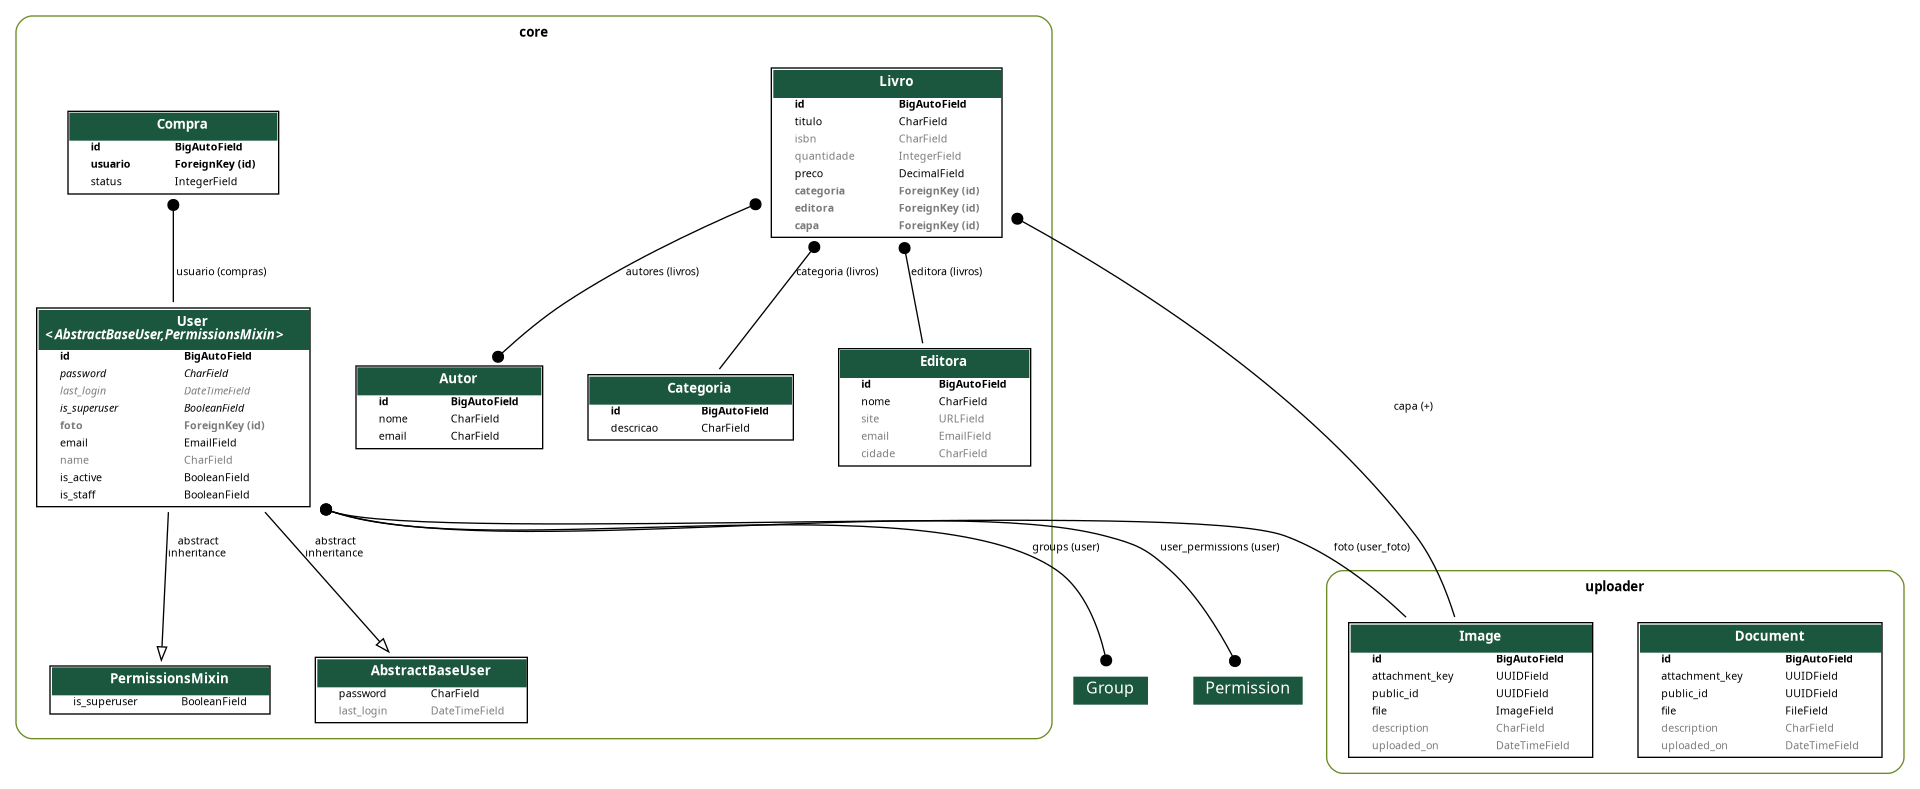
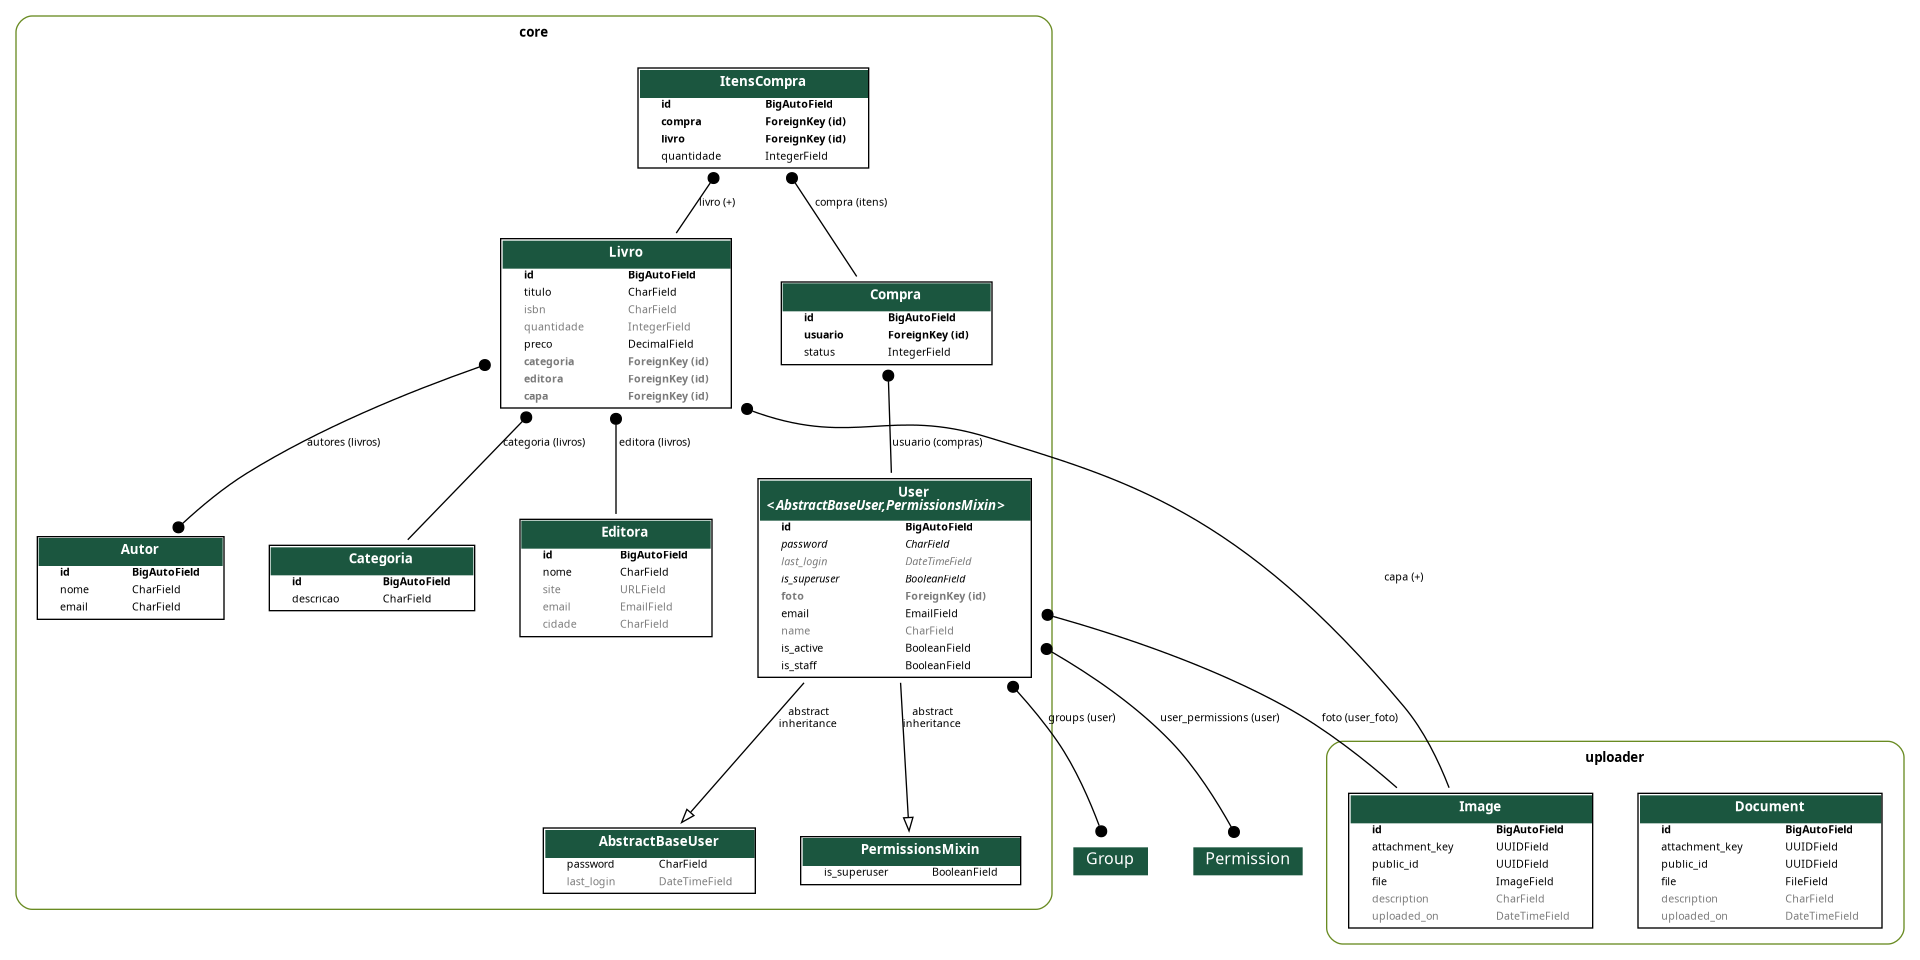
feat: uso de TabularInline e StackedInline no Admin para Itens da Compra

diff --git a/core/migrations/0007_itenscompra.py b/core/migrations/0007_itenscompra.py
@@ -1,0 +1,23 @@
+# Generated by Django 5.2.13 on 2026-06-16 19:04
+
+import django.db.models.deletion
+from django.db import migrations, models
+
+
+class Migration(migrations.Migration):
+
+    dependencies = [
+        ('core', '0006_compra'),
+    ]
+
+    operations = [
+        migrations.CreateModel(
+            name='ItensCompra',
+            fields=[
+                ('id', models.BigAutoField(auto_created=True, primary_key=True, serialize=False, verbose_name='ID')),
+                ('quantidade', models.IntegerField(default=1)),
+                ('compra', models.ForeignKey(on_delete=django.db.models.deletion.CASCADE, related_name='itens', to='core.compra')),
+                ('livro', models.ForeignKey(on_delete=django.db.models.deletion.PROTECT, related_name='+', to='core.livro')),
+            ],
+        ),
+    ]

diff --git a/core/admin.py b/core/admin.py
@@ -7,7 +7,7 @@ from django.contrib.auth.admin import UserAdmin as BaseUserAdmin
 from django.utils.translation import gettext_lazy as _
 
 from core import models
-from core.models import Autor, Categoria, Editora, Livro, User, Compra
+from core.models import Autor, Categoria, Editora, Livro, User, Compra, ItensCompra
 
 
 @admin.register(User)
@@ -87,8 +87,20 @@ class LivroAdmin(admin.ModelAdmin):
     ordering = ('titulo', 'editora', 'categoria')
     list_per_page = 25
 
[email redacted](ItensCompra)
+class ItensCompraAdmin(admin.ModelAdmin):
+    list_per_page = 10
+
+class ItensCompraInline(admin.TabularInline):
+    model = ItensCompra
+    extra = 1  # Quantidade de itens adicionais
+
 @admin.register(Compra)
 class CompraAdmin(admin.ModelAdmin):
     list_display = ('usuario', 'status')
+    search_fields = ('usuario', 'status')
+    list_filter = ('usuario', 'status')
     ordering = ('usuario', 'status')
-    list_per_page = 10   
+    list_per_page = 10
+    inlines = [ItensCompraInline]
+

diff --git a/core/models/compra.py b/core/models/compra.py
@@ -1,5 +1,5 @@
 from django.db import models
-
+from .livro import Livro
 from .user import User
 
 class Compra(models.Model):
@@ -11,3 +11,8 @@ class Compra(models.Model):
 
     usuario = models.ForeignKey(User, on_delete=models.PROTECT, related_name='compras')
     status = models.IntegerField(choices=StatusCompra.choices,  default=StatusCompra.CARRINHO)
+
+class ItensCompra(models.Model):
+    compra = models.ForeignKey(Compra, on_delete=models.CASCADE, related_name='itens')
+    livro = models.ForeignKey('Livro', on_delete=models.PROTECT, related_name='+')
+    quantidade = models.IntegerField(default=1)

diff --git a/core/models/__init__.py b/core/models/__init__.py
@@ -3,4 +3,5 @@ from .categoria import Categoria
 from .editora import Editora
 from .livro import Livro
 from .user import User
-from .compra import Compra
+from .compra import Compra, ItensCompra
+